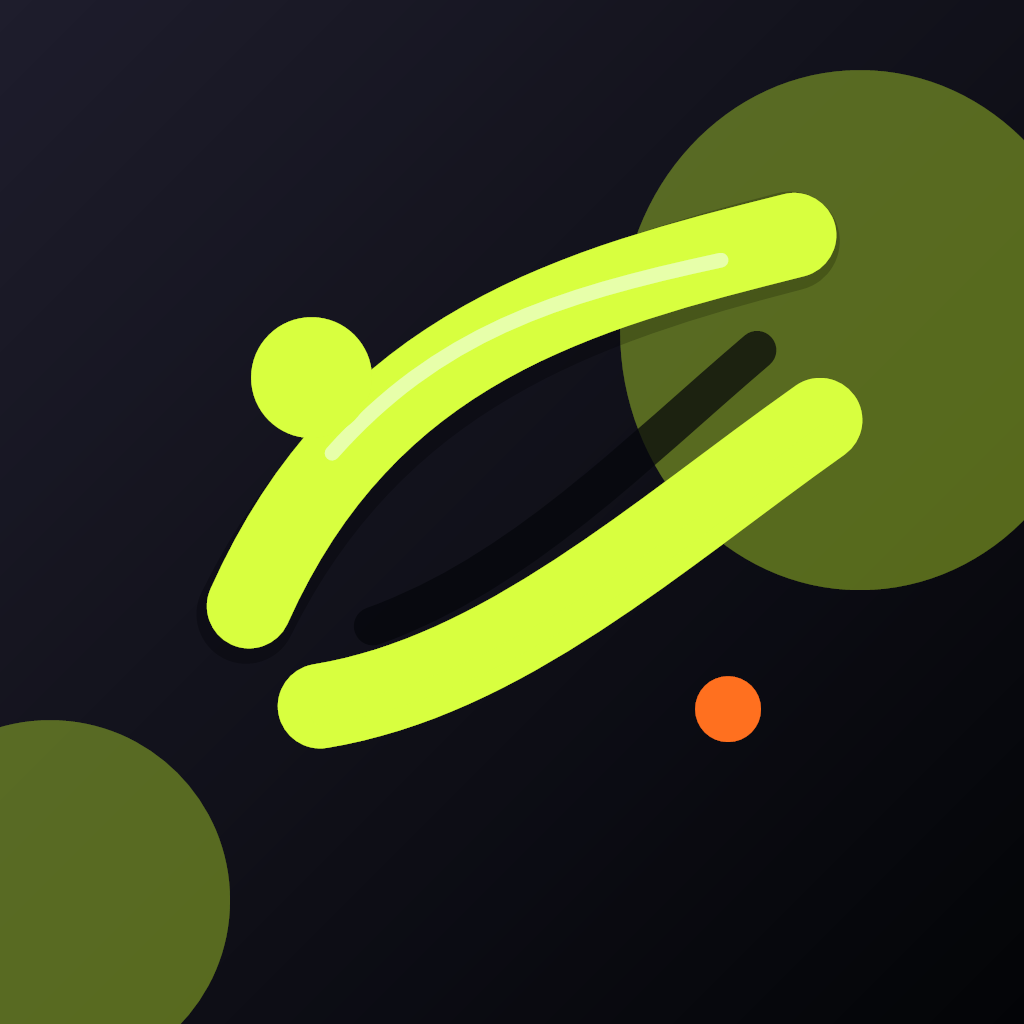
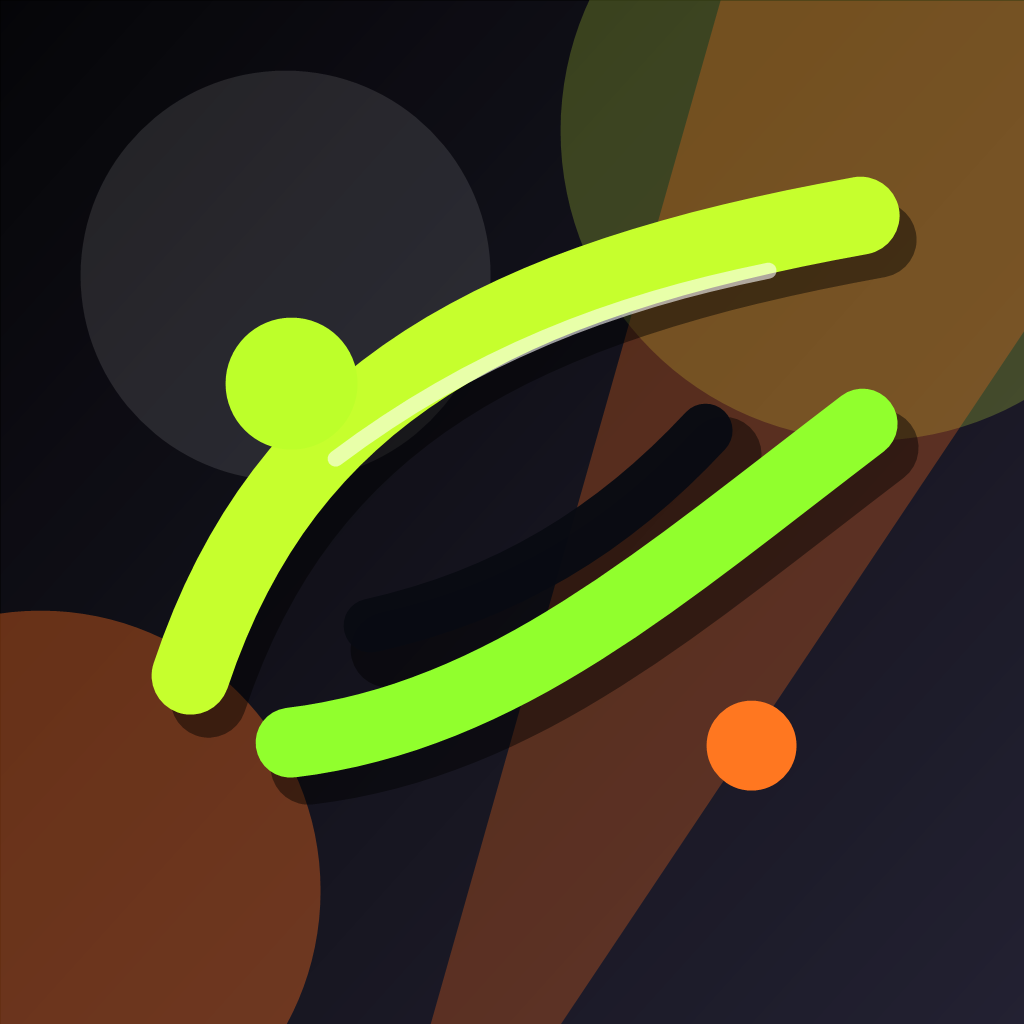
Polish Alabli iOS design and Codemagic workflow

diff --git a/arenaly/apps/alabli-ios-build/web/style.css b/arenaly/apps/alabli-ios-build/web/style.css
@@ -198,20 +198,11 @@ svg {
 .auth-logo .brand-mark {
   width: 70px;
   height: 70px;
-  border-radius: 18px;
+  border-radius: 21px;
 }
 
-.auth-logo .brand-mark::before {
-  width: 43px;
-  height: 27px;
-  border-width: 6px;
-}
-
-.auth-logo .brand-mark::after {
-  right: 15px;
-  bottom: 15px;
-  width: 11px;
-  height: 11px;
+.auth-logo .brand-mark i {
+  inset: 5px;
 }
 
 .auth-logo h1 {
@@ -540,44 +531,60 @@ svg {
   display: grid;
   place-items: center;
   overflow: hidden;
-  border: 1px solid rgba(216, 255, 63, 0.36);
-  border-radius: 11px;
+  border: 1px solid rgba(255, 255, 255, 0.22);
+  border-radius: 15px;
   background:
-    radial-gradient(circle at 68% 28%, rgba(216, 255, 63, 0.25), transparent 22%),
-    linear-gradient(145deg, rgba(255, 255, 255, 0.12), rgba(255, 255, 255, 0.025)),
-    #1f1e2c;
+    radial-gradient(circle at 70% 16%, rgba(216, 255, 63, 0.26), transparent 31%),
+    radial-gradient(circle at 16% 90%, rgba(255, 111, 29, 0.18), transparent 34%),
+    linear-gradient(145deg, rgba(255, 255, 255, 0.22), rgba(255, 255, 255, 0.045)),
+    rgba(22, 21, 32, 0.88);
   box-shadow:
-    inset 0 1px 0 rgba(255, 255, 255, 0.18),
-    0 14px 28px rgba(0, 0, 0, 0.32),
-    0 0 26px rgba(216, 255, 63, 0.12);
+    inset 0 1px 0 rgba(255, 255, 255, 0.36),
+    inset 0 -18px 28px rgba(0, 0, 0, 0.24),
+    0 16px 32px rgba(0, 0, 0, 0.38),
+    0 0 30px rgba(216, 255, 63, 0.18);
+  backdrop-filter: blur(18px) saturate(1.5);
+  -webkit-backdrop-filter: blur(18px) saturate(1.5);
 }
 
+.auth-logo .brand-mark::before,
 .brand-mark::before {
   content: "";
   position: absolute;
-  width: 27px;
-  height: 17px;
-  border: 4px solid var(--green);
-  border-left: 0;
-  border-bottom: 0;
-  border-radius: 0 13px 0 0;
-  transform: rotate(-24deg) translate(-1px, 0);
-  filter: drop-shadow(0 0 10px rgba(216, 255, 63, 0.4));
+  inset: 1px;
+  width: auto;
+  height: auto;
+  border: 1px solid rgba(255, 255, 255, 0.12);
+  border-radius: inherit;
+  background: linear-gradient(145deg, rgba(255, 255, 255, 0.22), transparent 42%);
+  transform: none;
+  filter: none;
+  pointer-events: none;
 }
 
+.auth-logo .brand-mark::after,
 .brand-mark::after {
   content: "";
   position: absolute;
-  right: 9px;
-  bottom: 9px;
-  width: 8px;
-  height: 8px;
-  border-radius: 999px;
-  background: var(--green);
-  box-shadow: 0 0 13px rgba(216, 255, 63, 0.72);
+  inset: 0;
+  width: auto;
+  height: auto;
+  border-radius: inherit;
+  background:
+    linear-gradient(120deg, rgba(255, 255, 255, 0.28), transparent 30%),
+    linear-gradient(300deg, rgba(255, 255, 255, 0.05), transparent 44%);
+  pointer-events: none;
 }
 
-.brand-mark i,
+.brand-mark i {
+  position: absolute;
+  inset: 4px;
+  z-index: 1;
+  display: block;
+  background: url("./assets/brand-symbol.png") center / contain no-repeat;
+  filter: drop-shadow(0 6px 13px rgba(216, 255, 63, 0.22));
+}
+
 .brand-mark b {
   display: none;
 }
@@ -834,24 +841,26 @@ svg {
   --icon-color: #bfff3e;
   direction: rtl;
   position: relative;
-  min-height: 108px;
+  min-height: 112px;
   overflow: hidden;
   display: grid;
   place-items: center;
-  gap: 8px;
-  padding: 10px 5px 9px;
+  gap: 9px;
+  padding: 12px 6px 10px;
   border: 1px solid var(--tile-border);
-  border-radius: 7px;
+  border-radius: 18px;
   background:
+    radial-gradient(circle at 26% 14%, rgba(255, 255, 255, 0.22), transparent 34%),
+    radial-gradient(circle at 78% 90%, rgba(255, 111, 29, 0.1), transparent 36%),
     linear-gradient(180deg, var(--tile-top), var(--tile-bottom)),
-    radial-gradient(circle at 28% 10%, rgba(216, 255, 63, 0.1), transparent 42%),
-    linear-gradient(145deg, rgba(255, 255, 255, 0.09), rgba(255, 255, 255, 0.018)),
+    linear-gradient(145deg, rgba(255, 255, 255, 0.12), rgba(255, 255, 255, 0.018)),
     rgba(24, 23, 34, 0.86);
   color: #fff;
   box-shadow:
-    inset 0 1px 0 rgba(255, 255, 255, 0.13),
-    inset 0 -18px 28px rgba(0, 0, 0, 0.24),
-    0 18px 38px rgba(0, 0, 0, 0.34);
+    inset 0 1px 0 rgba(255, 255, 255, 0.24),
+    inset 0 -24px 30px rgba(0, 0, 0, 0.28),
+    0 18px 38px rgba(0, 0, 0, 0.34),
+    0 0 0 1px rgba(255, 255, 255, 0.025);
   backdrop-filter: blur(18px) saturate(1.35);
   -webkit-backdrop-filter: blur(18px) saturate(1.35);
 }
@@ -877,31 +886,40 @@ svg {
   inset: 0;
   pointer-events: none;
   background:
-    linear-gradient(135deg, rgba(255, 255, 255, 0.11), transparent 36%),
+    linear-gradient(135deg, rgba(255, 255, 255, 0.22), transparent 34%),
     linear-gradient(0deg, rgba(255, 255, 255, 0.025), transparent 52%);
+}
+
+.sport-card::after {
+  content: "";
+  position: absolute;
+  left: 13%;
+  top: 8%;
+  width: 58%;
+  height: 1px;
+  pointer-events: none;
+  border-radius: 999px;
+  background: rgba(255, 255, 255, 0.36);
+  box-shadow: 0 0 18px rgba(255, 255, 255, 0.14);
 }
 
 .sport-icon {
   position: relative;
   z-index: 1;
-  width: 48px;
-  height: 43px;
+  width: 50px;
+  height: 50px;
   display: grid;
   place-items: center;
-  border: 0;
-  border-radius: 0;
-  background: transparent;
-  box-shadow: none;
-  backdrop-filter: none;
-  -webkit-backdrop-filter: none;
 }
 
 .sport-icon svg {
-  width: 39px;
-  height: 39px;
+  width: 38px;
+  height: 38px;
   color: var(--icon-color);
-  stroke-width: 2.35;
-  filter: drop-shadow(0 8px 12px rgba(0, 0, 0, 0.36));
+  stroke-width: 2.45;
+  filter:
+    drop-shadow(0 0 10px rgba(216, 255, 63, 0.34))
+    drop-shadow(0 8px 12px rgba(0, 0, 0, 0.35));
 }
 
 .sport-card.active .sport-icon {
@@ -1296,14 +1314,15 @@ svg {
   width: 32px;
   height: 32px;
   padding: 6px;
-  border: 1px solid rgba(255, 255, 255, 0.14);
-  border-radius: 7px;
+  border: 1px solid rgba(255, 255, 255, 0.18);
+  border-radius: 10px;
   background:
-    linear-gradient(145deg, rgba(255, 255, 255, 0.18), rgba(255, 255, 255, 0.035)),
-    rgba(31, 30, 44, 0.74);
-  box-shadow: inset 0 1px 0 rgba(255, 255, 255, 0.18), 0 8px 18px rgba(0, 0, 0, 0.2);
-  backdrop-filter: blur(14px) saturate(1.25);
-  -webkit-backdrop-filter: blur(14px) saturate(1.25);
+    radial-gradient(circle at 28% 14%, rgba(255, 255, 255, 0.24), transparent 36%),
+    linear-gradient(145deg, rgba(255, 255, 255, 0.2), rgba(255, 255, 255, 0.04)),
+    rgba(31, 30, 44, 0.78);
+  box-shadow: inset 0 1px 0 rgba(255, 255, 255, 0.24), 0 8px 18px rgba(0, 0, 0, 0.24);
+  backdrop-filter: blur(16px) saturate(1.35);
+  -webkit-backdrop-filter: blur(16px) saturate(1.35);
 }
 
 .bottom-nav .active {